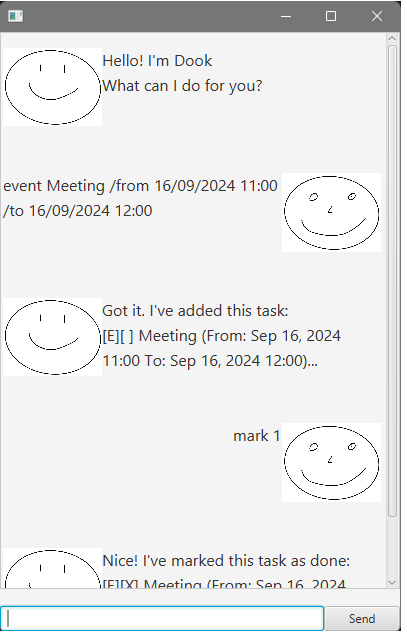
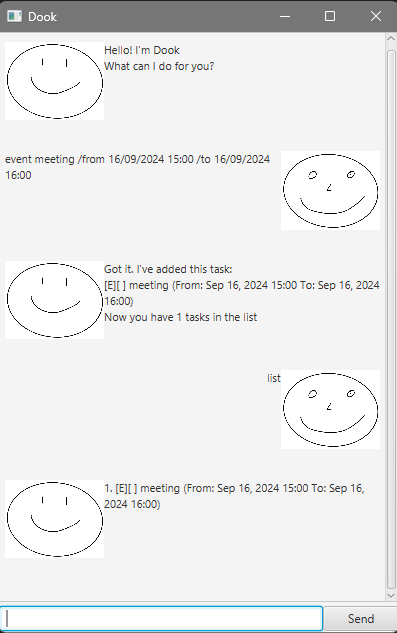
Update GUI and Ui.png

diff --git a/src/main/java/fx/DialogBox.java b/src/main/java/fx/DialogBox.java
@@ -13,6 +13,7 @@ import javafx.scene.control.Label;
 import javafx.scene.image.Image;
 import javafx.scene.image.ImageView;
 import javafx.scene.layout.HBox;
+import javafx.scene.layout.Region;
 
 /**
  * Represents a dialog box consisting of an ImageView to represent the speaker's face
@@ -35,6 +36,7 @@ public class DialogBox extends HBox {
         }
 
         dialog.setText(text);
+        dialog.setMinHeight(Region.USE_PREF_SIZE);
         displayPicture.setImage(img);
 
         dialog.setWrapText(true);

diff --git a/src/main/java/fx/Main.java b/src/main/java/fx/Main.java
@@ -23,6 +23,7 @@ public class Main extends Application {
             AnchorPane ap = fxmlLoader.load();
             Scene scene = new Scene(ap);
             stage.setScene(scene);
+            stage.setTitle("Dook");
             stage.show();
             fxmlLoader.<MainWindow>getController().setDook(dook);
         } catch (IOException e) {
